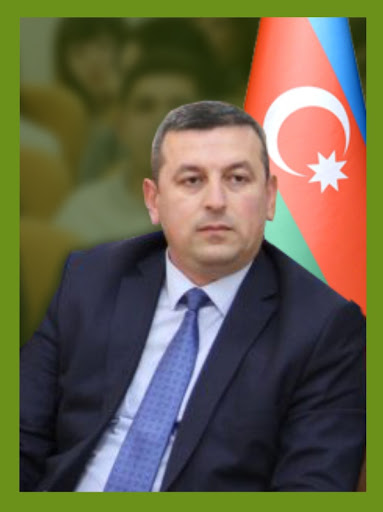
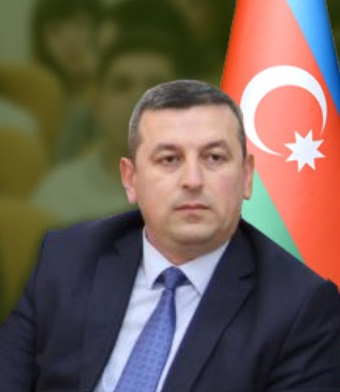
update

diff --git a/index.html b/index.html
@@ -1,8 +1,5 @@
 <!DOCTYPE html>
-
-
 <html lang="en">
-
 <head>
   <meta charset="utf-8">
   <meta name="viewport" content="width=device-width, initial-scale=1.0">
@@ -301,14 +298,14 @@
       <div class="row">
         <div class="col-md-3 col-sm-6 col-xs-12 team-main-sec wow slideInUp" data-wow-duration="1s"
           data-wow-delay=".1s">
-          <div class="team-sec">
-            <div class="team-img"> <img src="images/Team/01.jpg" class="img-responsive" alt="">
+          <div class="team-sec ">
+            <div class="team-img"> <img src="images/Team/speaker/İbrahim jafarov.jpg" class="img-responsive" alt="">
               <div class="team-desc">
                 <h5>Ibrahim Jafarov</h5>
                 <p>Rector of ASAU</p>
                 <ul class="team-social-icon">
-                  <li><a href="#" data-toggle="tooltip" target="_blank" data-placement="top" title="Linkedin"><i
-                        class="fa fa-linkedin"></i></a></li>
+                  <!-- <li><a href="#" data-toggle="tooltip" target="_blank" data-placement="top" title="Linkedin"><i
+                        class="fa fa-linkedin"></i></a></li> -->
                 </ul>
               </div>
             </div>
@@ -322,8 +319,8 @@
                 <h5>Mammad Karim</h5>
                 <p>Head of INNOLAND Incubation and Acceleration Center</p>
                 <ul class="team-social-icon">
-                  <li><a href="#" data-toggle="tooltip" target="_blank" data-placement="top" title="Linkedin"><i
-                        class="fa fa-linkedin"></i></a></li>
+                  <!-- <li><a href="#" data-toggle="tooltip" target="_blank" data-placement="top" title="Linkedin"><i
+                        class="fa fa-linkedin"></i></a></li> -->
                 </ul>
               </div>
             </div>
@@ -331,14 +328,14 @@
         </div>
         <div class="col-md-3 col-sm-6 col-xs-12 team-main-sec wow slideInUp" data-wow-duration="1s"
           data-wow-delay=".1s">
-          <div class="team-sec">
+          <div class="team-sec  custom-fit">
             <div class="team-img"> <img src="images/Team/speaker/Ramin mammadov.jpg" class="img-responsive" alt="">
               <div class="team-desc">
-                <h5>Ramin Mammadov</h5>
+                <h5>Ramin Mammadov </h5>
                 <p>Vice Rector for Scientific Affairs at ASAU</p>
                 <ul class="team-social-icon">
-                  <li><a href="#" data-toggle="tooltip" target="_blank" data-placement="top" title="Facebook"><i
-                        class="fa fa-linkedin"></i></a></li>
+                  <!-- <li><a href="#" data-toggle="tooltip" target="_blank" data-placement="top" title="Facebook"><i
+                        class="fa fa-linkedin"></i></a></li> -->
                 </ul>
               </div>
             </div>
@@ -352,8 +349,8 @@
                 <h5>Yuriy Petruk</h5>
                 <p>Head of Agtech Ukraine</p>
                 <ul class="team-social-icon">
-                  <li><a href="#" data-toggle="tooltip" target="_blank" data-placement="top" title="Linkedin"><i
-                        class="fa fa-linkedin"></i></a></li>
+                  <!-- <li><a href="#" data-toggle="tooltip" target="_blank" data-placement="top" title="Linkedin"><i
+                        class="fa fa-linkedin"></i></a></li> -->
                 </ul>
               </div>
             </div>
@@ -386,8 +383,8 @@
                 <h5>Rashad Eyvazov </h5>
                 <p>Managing Director of Next Step Incubation Center</p>
                 <ul class="team-social-icon">
-                  <li><a href="#" data-toggle="tooltip" target="_blank" data-placement="top" title="Linkedin"><i
-                        class="fa fa-linkedin"></i></a></li>
+                  <!-- <li><a href="#" data-toggle="tooltip" target="_blank" data-placement="top" title="Linkedin"><i
+                        class="fa fa-linkedin"></i></a></li> -->
                 </ul>
               </div>
             </div>
@@ -401,8 +398,8 @@
                 <h5>Tariyel Aghazada</h5>
                 <p>Managing Director of Techaz</p>
                 <ul class="team-social-icon">
-                  <li><a href="#" data-toggle="tooltip" target="_blank" data-placement="top" title="Linkedin"><i
-                        class="fa fa-linkedin"></i></a></li>
+                  <!-- <li><a href="#" data-toggle="tooltip" target="_blank" data-placement="top" title="Linkedin"><i
+                        class="fa fa-linkedin"></i></a></li> -->
                 </ul>
               </div>
             </div>
@@ -416,8 +413,8 @@
                 <h5>Nazrin Guluzada</h5>
                 <p>Managing Director of Femtech</p>
                 <ul class="team-social-icon">
-                  <li><a href="#" data-toggle="tooltip" target="_blank" data-placement="top" title="Linkedin"><i
-                        class="fa fa-linkedin"></i></a></li>
+                  <!-- <li><a href="#" data-toggle="tooltip" target="_blank" data-placement="top" title="Linkedin"><i
+                        class="fa fa-linkedin"></i></a></li> -->
                 </ul>
               </div>
             </div>
@@ -431,8 +428,8 @@
                 <h5>Amid Guliyev</h5>
                 <p>Senior Software Engineer</p>
                 <ul class="team-social-icon">
-                  <li><a href="#" data-toggle="tooltip" target="_blank" data-placement="top" title="Linkedin"><i
-                        class="fa fa-linkedin"></i></a></li>
+                  <!-- <li><a href="#" data-toggle="tooltip" target="_blank" data-placement="top" title="Linkedin"><i
+                        class="fa fa-linkedin"></i></a></li> -->
                 </ul>
               </div>
             </div>
@@ -448,8 +445,8 @@
                 <h5>Elshad Yusifli</h5>
                 <p>CO-Founder and CTO of Keepface</p>
                 <ul class="team-social-icon">
-                  <li><a href="#" data-toggle="tooltip" target="_blank" data-placement="top" title="Linkedin"><i
-                        class="fa fa-linkedin"></i></a></li>
+                  <!-- <li><a href="#" data-toggle="tooltip" target="_blank" data-placement="top" title="Linkedin"><i
+                        class="fa fa-linkedin"></i></a></li> -->
                 </ul>
               </div>
             </div>
@@ -463,8 +460,8 @@
                 <h5>Aloysad ASGAROV </h5>
                 <p>Professor at ASAU</p>
                 <ul class="team-social-icon">
-                  <li><a href="#" data-toggle="tooltip" target="_blank" data-placement="top" title="Linkedin"><i
-                        class="fa fa-linkedin"></i></a></li>
+                  <!-- <li><a href="#" data-toggle="tooltip" target="_blank" data-placement="top" title="Linkedin"><i
+                        class="fa fa-linkedin"></i></a></li> -->
                 </ul>
               </div>
             </div>
@@ -478,8 +475,8 @@
                 <h5>Anar HUSEYNOV </h5>
                 <p>Associate dean at ASAU</p>
                 <ul class="team-social-icon">
-                  <li><a href="#" data-toggle="tooltip" target="_blank" data-placement="top" title="Linkedin"><i
-                        class="fa fa-linkedin"></i></a></li>
+                  <!-- <li><a href="#" data-toggle="tooltip" target="_blank" data-placement="top" title="Linkedin"><i
+                        class="fa fa-linkedin"></i></a></li> -->
                 </ul>
               </div>
             </div>
@@ -493,8 +490,8 @@
                 <h5>Mushfig HUSEYNOV </h5>
                 <p>Professor at ASAU</p>
                 <ul class="team-social-icon">
-                  <li><a href="#" data-toggle="tooltip" target="_blank" data-placement="top" title="Linkedin"><i
-                        class="fa fa-linkedin"></i></a></li>
+                  <!-- <li><a href="#" data-toggle="tooltip" target="_blank" data-placement="top" title="Linkedin"><i
+                        class="fa fa-linkedin"></i></a></li> -->
                 </ul>
               </div>
             </div>
@@ -570,7 +567,7 @@
           </div>
           <div class="col-md-6 blog-sec">
             <a href="#" target="_blank" class="blog-info partner-info">
-              <img src="images/Team/organizers/sub.png" class="img-responsive" alt="" />
+              <img src="images/Team/organizers/usaid-organizer.jpg" class="img-responsive" alt="" />
             </a>
           </div>
         </div>
@@ -594,18 +591,18 @@
       <div class="row">
         <div class="col-md-12">
           <div class="col-md-4 blog-sec">
-            <a href="#" target="_blank" class="blog-info">
+            <a href="#" target="_blank" class="blog-info partner-info">
               <img src="images/Team/partner/innoland.png" class="img-responsive" alt="" />
             </a>
           </div>
           <div class="col-md-4 blog-sec">
-            <a href="#" target="_blank" class="blog-info">
-              <img src="images/Team/partner/innoland.png" class="img-responsive" alt="" />
+            <a href="#" target="_blank" class="blog-info partner-info">
+              <img src="images/Team/partner/Aqrar-uni-partner.jpg" class="img-responsive" alt="" />
             </a>
           </div>
           <div class="col-md-4 blog-sec">
-            <a href="#" target="_blank" class="blog-info">
-              <img src="images/Team/partner/innoland.png" class="img-responsive" alt="" />
+            <a href="#" target="_blank" class="blog-info partner-info">
+              <img src="images/Team/partner/Agtechukraina-partner.jpeg" class="img-responsive" alt="" />
             </a>
           </div>
         </div>

diff --git a/css/style.css b/css/style.css
@@ -1031,6 +1031,10 @@ ul.nav li.active a:before {
 .team-sec img {
 	width:100%;
 	height:220px;
+	object-fit: contain;
+}
+
+.custom-fit img{
 	object-fit: cover;
 }
 .team-main-sec:hover .team-sec {
@@ -1165,8 +1169,13 @@ ul.nav li.active a:before {
 	text-align: center;
 	padding: 3% 0% 0% 2%;
 }
+
 .partner-info{
-	width:70%;
+	height: 300px !important;
+}
+
+.partner-info img{
+	width:75%;
 }
 
 .blog-info {
